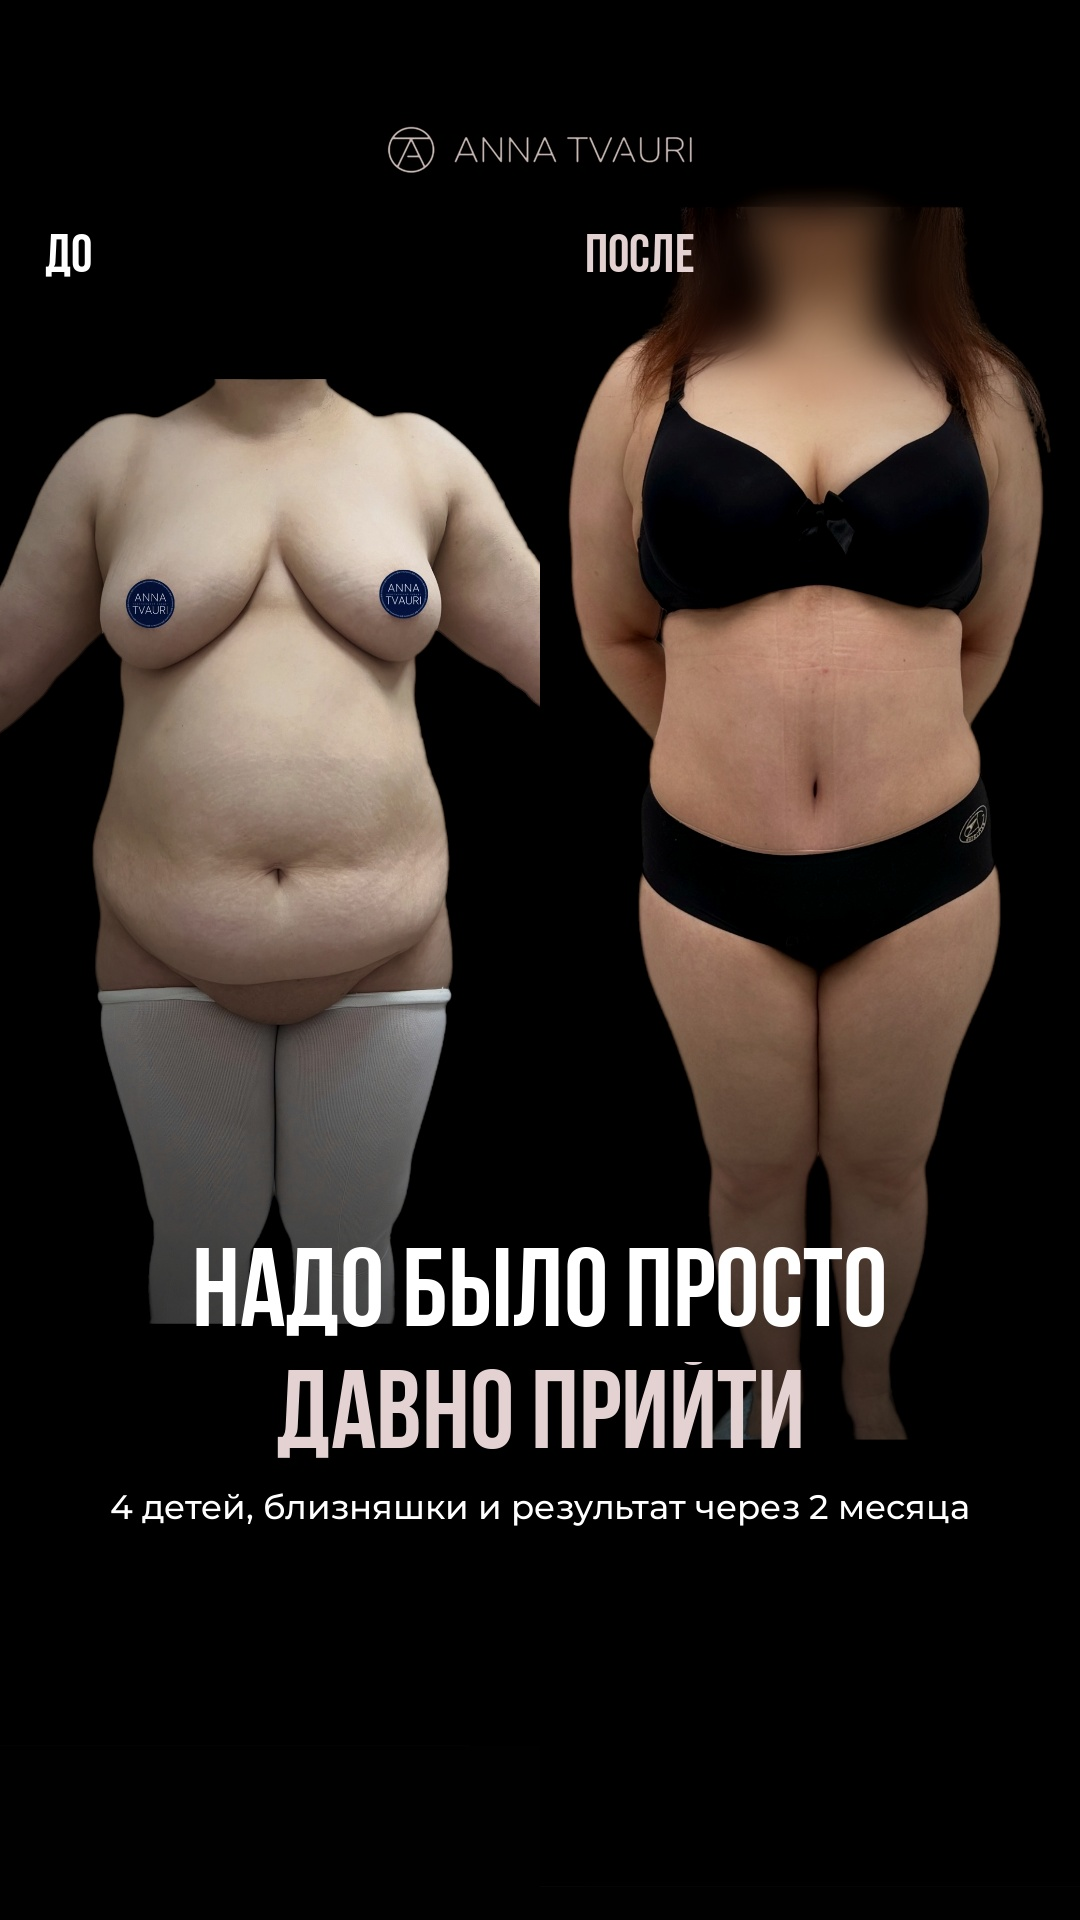
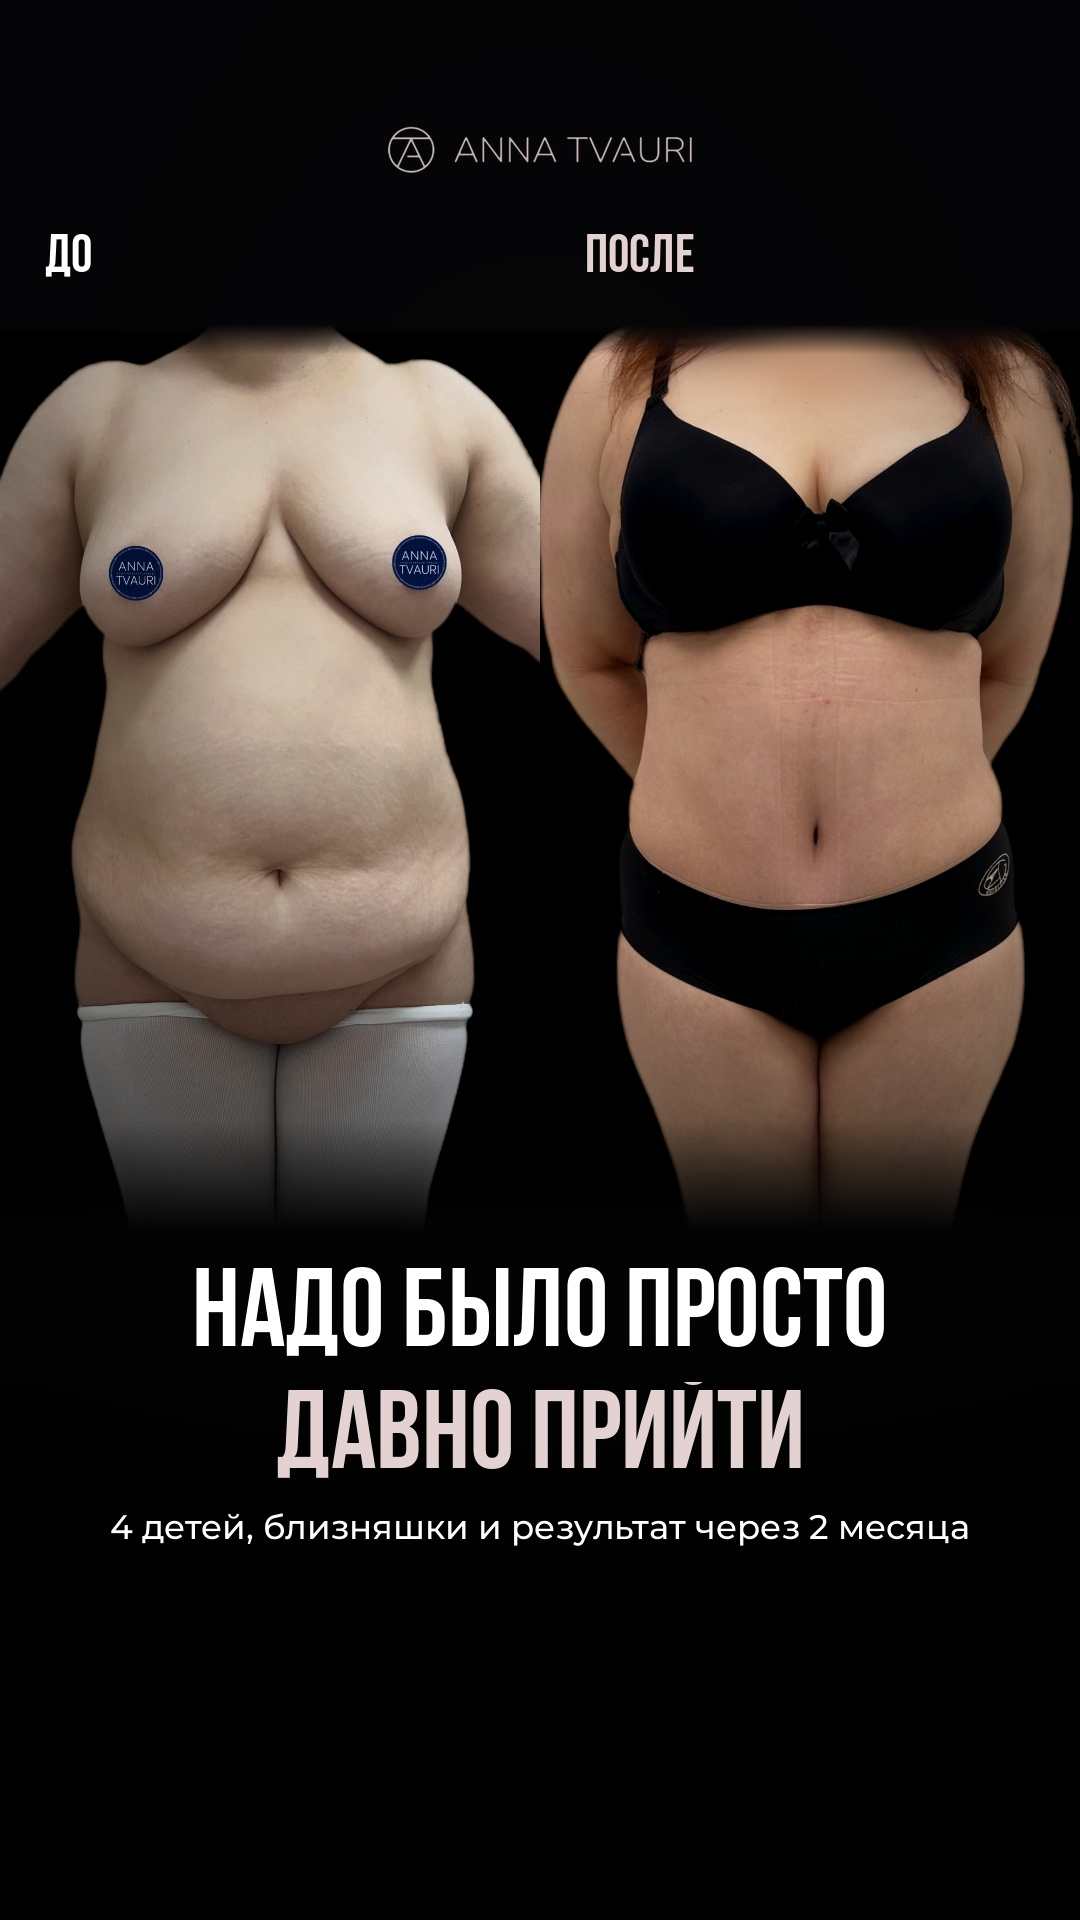
Abdominoplasty reel v2: ДО-only opening with callouts, no circle/CTA, varied text animations; neck-to-fingertips cover
Claude-Session: https://claude.ai/code/session_01WwhZiMgoJM3MQocuuEgczm

Changed region(s): [[0.0, 0.0938, 1.0, 0.8125]]

diff --git a/tools/reel_abdominoplasty.py b/tools/reel_abdominoplasty.py
@@ -1,5 +1,5 @@
 _b = open("base.py").read()
-for a, b in [("DUR = 41.0", "DUR = 50.6"), ("ease((t - t0) / 0.3))\ndef mblur", "ease((t - t0) / 0.6))\ndef mblur"),
+for a, b in [("DUR = 41.0", "DUR = 47.6"), ("ease((t - t0) / 0.3))\ndef mblur", "ease((t - t0) / 0.6))\ndef mblur"),
              ("if lt > 0.1: return fr", "if lt > 0.18: return fr"), ("(1 - lt / 0.1)", "(1 - lt / 0.18)"),
              ("ti = t0 + k * 0.16; p = ease((t - ti) / 0.45)", "ti = t0 + k * 0.24; p = ease((t - ti) / 0.65)"),
              ("out = 1 - ease((t - t1) / 0.3) if t > t1 else 1.0", "out = 1 - ease((t - t1) / 0.4) if t > t1 else 1.0"),
@@ -25,9 +25,9 @@ def src_of(t, name):
         best = (so, t0 + so - si)
     return None if best is None else best[0] + t - best[1]
 
-BL = [("open", 0, 3.2), ("iv1", 3.2, 8.0), ("do", 8.0, 12.6), ("morph", 12.6, 17.0), ("zones", 17.0, 20.2),
-      ("belly", 20.2, 23.0), ("waist", 23.0, 24.8), ("life", 24.8, 30.0), ("circ", 30.0, 35.1), ("here", 35.1, 40.0),
-      ("col1", 40.0, 41.8), ("col2", 41.8, 43.6), ("col3", 43.6, 45.4), ("col4", 45.4, 47.2), ("cta", 47.2, DUR)]
+BL = [("open", 0, 8.0), ("do", 8.0, 12.6), ("morph", 12.6, 17.0), ("zones", 17.0, 20.2),          # ДО only until the morph
+      ("belly", 20.2, 23.0), ("waist", 23.0, 24.8), ("life", 24.8, 30.0), ("secret", 30.0, 35.1), ("here", 35.1, 40.0),
+      ("col1", 40.0, 41.85), ("col2", 41.85, 43.7), ("col3", 43.7, 45.55), ("col4", 45.55, DUR)]
 XF = 0.35
 def block(t):
     for n, a, b in BL:
@@ -53,7 +53,7 @@ BF = {k: photo(n) for k, n in [("f", 7728), ("q", 7729), ("s", 7730), ("b", 7731
 AF = {k: photo(n) for k, n in [("f", 7732), ("q", 7733), ("s", 7734), ("b", 7735)]}
 AF["f"] = blur_ell(AF["f"], (1040, 900), (260, 210)); AF["q"] = blur_ell(AF["q"], (1090, 1000), (240, 270)); AF["s"] = blur_ell(AF["s"], (1180, 990), (200, 240))
 # body anchors: (shoulder y, crotch y, centre x) in source pixels
-ANC = {("B", "f"): (900, 2120, 1088), ("B", "q"): (960, 2230, 1050), ("B", "b"): (960, 2250, 1010),
+ANC = {("B", "f"): (900, 2120, 1088), ("B", "s"): (980, 2250, 1040), ("B", "q"): (960, 2230, 1050), ("B", "b"): (960, 2250, 1010),
        ("A", "f"): (1130, 2140, 1025), ("A", "q"): (1278, 2200, 1080)}
 def pv(img, key, z=1.0, Y0=430, Y1=1120):
     top, bot, cx = ANC[key]; s = (Y1 - Y0) / (bot - top) * z
@@ -61,14 +61,101 @@ def pv(img, key, z=1.0, Y0=430, Y1=1120):
 COL = [load(f"dl/IMG_{n}.PNG") for n in (7736, 7737, 7738, 7739)]
 
 # ---------------- text ----------------
+def timg(txt, kind, size):
+    f = osw(size) if kind in ("H", "P") else mont(500, 36); asc, desc = f.getmetrics(); tw = int(f.getlength(txt))
+    im = Image.new("RGBA", (tw + 8, asc + desc + 4), (0, 0, 0, 0)); ImageDraw.Draw(im).text((4, 2 + asc), txt, font=f, fill=(255, 255, 255, 255), anchor="ls")
+    return to_np(im)
+def cols(kind): return (PINK, ROSE) if kind == "P" else (WHITE, BLUE)
+class Pill:
+    """outlined rounded frame opens from the centre, then the text wipes in left -> right (reference opening)"""
+    def __init__(s, lines, size=84):
+        s.ims = [(timg(t, k, size), k) for t, k in lines]
+        s.w = max(i.shape[1] for i, _ in s.ims) + 90; s.h = sum(i.shape[0] for i, _ in s.ims) + 50
+        im = Image.new("RGBA", (s.w + 8, s.h + 8), (0, 0, 0, 0))
+        ImageDraw.Draw(im).rounded_rectangle((3, 3, s.w + 4, s.h + 4), radius=min(46, s.h // 2), outline=(255, 255, 255, 255), width=4)
+        s.box = to_np(im)
+    def draw(s, fr, yc, t, t0, t1):
+        if t < t0 or t > t1 + 0.5: return
+        pb = ease((t - t0) / 0.5); out = 1 - ease((t - t1) / 0.45) if t > t1 else 1.0
+        bw = max(2, int(s.box.shape[1] * pb)); x0 = 540 - s.box.shape[1] / 2; y0 = yc - s.box.shape[0] / 2
+        b = s.box.copy(); c = (s.box.shape[1] - bw) // 2; b[:, :c] = 0; b[:, c + bw:] = 0
+        ablend(fr, b, x0, y0, out * 0.95, WHITE, BLUE)
+        yy = y0 + 4 + 25
+        for k, (im, kind) in enumerate(s.ims):
+            pw = ease((t - t0 - 0.35 - 0.2 * k) / 0.55)
+            if t > t1: pw = min(pw, 1 - ease((t - t1 - 0.05 * k) / 0.35))
+            if pw > 0:
+                vis = im.copy(); vis[:, int(vis.shape[1] * pw):] = 0
+                ablend(fr, vis, 540 - im.shape[1] / 2, yy, 1.0, *cols(kind))
+            yy += im.shape[0]
+class SlideL:
+    """left-aligned lines slide out of their own mask, one by one"""
+    def __init__(s, lines, size=80, x=70): s.ims = [(timg(t, k, size), k) for t, k in lines]; s.x = x
+    def draw(s, fr, y, t, t0, t1):
+        if t < t0 or t > t1 + 0.5: return
+        out = 1 - ease((t - t1) / 0.4) if t > t1 else 1.0
+        for k, (im, kind) in enumerate(s.ims):
+            p = ease((t - t0 - 0.28 * k) / 0.6)
+            if p > 0:
+                w = int(im.shape[1] * p); vis = np.zeros_like(im); vis[:, :w] = im[:, im.shape[1] - w:]
+                ablend(fr, vis, s.x, y, out, *cols(kind))
+                if kind == "P" and p > 0.3:                                 # thin powder bar grows under the key line
+                    bar = np.zeros((6, int((im.shape[1] - 8) * ease((t - t0 - 0.28 * k - 0.25) / 0.6)) + 1, 4), np.float32); bar[..., 3] = 1
+                    ablend(fr, bar, s.x + 4, y + im.shape[0] + 2, out, PINK, ROSE)
+            y += im.shape[0] + 10
+class Pop:
+    """each line punches in from a bigger size"""
+    def __init__(s, lines, size=110): s.ims = [(timg(t, k, size), k) for t, k in lines]
+    def draw(s, fr, y, t, t0, t1):
+        if t < t0 or t > t1 + 0.5: return
+        out = 1 - ease((t - t1) / 0.4) if t > t1 else 1.0
+        for k, (im, kind) in enumerate(s.ims):
+            lt = t - t0 - 0.3 * k
+            if lt > 0:
+                sc = 1 + 0.45 * (1 - ease(lt / 0.45)); im2 = cv2.resize(im, (int(im.shape[1] * sc), int(im.shape[0] * sc)))
+                ablend(fr, im2, 540 - im2.shape[1] / 2, y + im.shape[0] / 2 - im2.shape[0] / 2, out * min(1, lt / 0.2), *cols(kind))
+            y += im.shape[0] + 4
+def brackets(fr, cx, cy, w, h, t, t0, t1):
+    """viewfinder corners that close in on the area (reference)"""
+    if t < t0 or t > t1 + 0.4: return
+    p = ease((t - t0) / 0.7); al = min(1, (t - t0) / 0.2) * (1 - ease((t - t1) / 0.4) if t > t1 else 1)
+    sc = 1.5 - 0.5 * p; hw, hh = w * sc / 2, h * sc / 2; L = 60
+    m = np.zeros((H, W), np.uint8)
+    for sx in (-1, 1):
+        for sy in (-1, 1):
+            x, y = int(cx + sx * hw), int(cy + sy * hh)
+            cv2.line(m, (x, y), (x - sx * L, y), 255, 5, cv2.LINE_AA); cv2.line(m, (x, y), (x, y - sy * L), 255, 5, cv2.LINE_AA)
+    a = m.astype(np.float32)[..., None] / 255 * al; fr *= 1 - a; fr += a
+CL = {}
+def callout(fr, txt, t, t0, pt, lx, ly, side, t1=1e9):
+    """diagnosis callout: pulsing dot -> thin line -> underlined small label (reference)"""
+    if t < t0 or t > t1 + 0.4: return
+    al = 1 - ease((t - t1) / 0.4) if t > t1 else 1.0
+    if txt not in CL:
+        f = mont(600, 42); asc, desc = f.getmetrics(); im = Image.new("RGBA", (int(f.getlength(txt)) + 8, asc + desc + 4), (0, 0, 0, 0))
+        ImageDraw.Draw(im).text((4, 2 + asc), txt, font=f, fill=(255, 255, 255, 255), anchor="ls"); CL[txt] = to_np(im)
+    im = CL[txt]; tw = im.shape[1]
+    ax = lx                                                                # line meets the label's outer end, underline runs inward
+    pl = ease((t - t0 - 0.2) / 0.5); pu = ease((t - t0 - 0.6) / 0.4)
+    m = np.zeros((H, W), np.uint8)
+    cv2.circle(m, (int(pt[0]), int(pt[1])), 8, 255, -1, cv2.LINE_AA)
+    pr = ((t - t0) * 0.9) % 1; ring_m = np.zeros((H, W), np.uint8); cv2.circle(ring_m, (int(pt[0]), int(pt[1])), int(14 + 26 * pr), 255, 3, cv2.LINE_AA)
+    ex, ey = pt[0] + (ax - pt[0]) * pl, pt[1] + (ly + 6 - pt[1]) * pl
+    cv2.line(m, (int(pt[0]), int(pt[1])), (int(ex), int(ey)), 255, 3, cv2.LINE_AA)
+    if pu > 0: cv2.line(m, (int(ax), int(ly + 6)), (int(ax - side * tw * pu), int(ly + 6)), 255, 3, cv2.LINE_AA)
+    a = (m.astype(np.float32) + ring_m.astype(np.float32) * (1 - pr) * 0.8)[..., None] / 255 * al * min(1, (t - t0) / 0.15)
+    fr *= 1 - np.clip(a, 0, 1); fr += np.clip(a, 0, 1)
+    if pu > 0:
+        x = lx if side < 0 else lx - tw; vis = im.copy(); vis[:, int(tw * pu):] = 0 if side < 0 else vis[:, int(tw * pu):]
+        if side > 0: vis[:, :int(tw * (1 - pu))] = 0
+        ablend(fr, vis, x, ly - im.shape[0] - 2, al, WHITE, BLUE)
 T0 = Title([("НАДО БЫЛО ПРОСТО", "H"), ("ДАВНО ПРИЙТИ", "P"), ("2 месяца после операции", "S")], 96)
-T1 = Title([("4 ДЕТЕЙ", "P"), ("ОДНИ РОДЫ С БЛИЗНЯШКАМИ", "H")], 92)
-T2 = Title([("АБДОМИНОПЛАСТИКА", "P"), ("+ ЛИПОСАКЦИЯ РУК", "H"), ("+ ЛИПОСАКЦИЯ СПИНЫ", "H")], 84)
-T3 = Title([("УШИЛИ ДИАСТАЗ", "P"), ("рубцу сейчас только 2 месяца", "S")], 104)
-T4 = Title([("НАЧАЛАСЬ", "H"), ("НОВАЯ ЖИЗНЬ", "P")], 104)
-T5 = Title([("«ОКАЗЫВАЕТСЯ, ВЕСЬ СЕКРЕТ —", "H"), ("ПРОСТО ПРИЙТИ»", "P")], 80)
-T6 = Title([("НАДО ЖИТЬ", "H"), ("ЗДЕСЬ И СЕЙЧАС", "P")], 110)
-TC = Title([("ЗАПИСЬ НА КОНСУЛЬТАЦИЮ", "H"), ("ПИШИТЕ «КОНСУЛЬТАЦИЯ»", "P"), ("в Direct", "S")], 92)
+T1 = Pill([("4 ДЕТЕЙ", "P"), ("ОДНИ РОДЫ С БЛИЗНЯШКАМИ", "H")], 80)                       # framed, bottom
+T2 = SlideL([("АБДОМИНОПЛАСТИКА", "P"), ("+ ЛИПОСАКЦИЯ РУК", "H"), ("+ ЛИПОСАКЦИЯ СПИНЫ", "H")], 76)   # left column
+T3 = Pop([("УШИЛИ ДИАСТАЗ", "P")], 118); T3s = timg("рубцу сейчас только 2 месяца", "S", 0)       # big punch, centre
+T4 = Title([("НАЧАЛАСЬ", "H"), ("НОВАЯ ЖИЗНЬ", "P")], 112)                                     # top of the frame
+T5 = Pill([("ВЕСЬ СЕКРЕТ —", "H"), ("ПРОСТО ПРИЙТИ", "P")], 92)
+T6 = Pop([("НАДО ЖИТЬ", "H"), ("ЗДЕСЬ И СЕЙЧАС", "P")], 116)
 CH_DO, CH_PO = label("ДО", WHITE), label("ПОСЛЕ", PINK)
 
 ZL = {}
@@ -108,7 +195,7 @@ for i in range(len(SUB)):
     nxt = SUB[i + 1][0] if i + 1 < len(SUB) else DUR
     SUB[i][1] = min(nxt, max(SUB[i][1], SUB[i][0] + 0.3) + 0.25)
 
-def face_disc_iv(t, r):
+def _unused_face_disc_iv(t, r):
     f = V["iv"].get(int(round(src_of(t, "iv") * 30))); half = 430
     crop = f[int(560 - half):int(560 + half), int(540 - half):int(540 + half)]
     return cv2.resize(crop, (2 * int(r), 2 * int(r)), interpolation=cv2.INTER_AREA).astype(np.float32) / 255
@@ -124,25 +211,34 @@ def morph(a_, b_, p, f=0.35):
     edge = (xx_ / W * 0.6 + yy_ / H * 0.4)[..., None]
     m = np.clip((p * (1 + f) - edge) / f, 0, 1); return a_ * (1 - m) + b_ * m
 
-LIGHT_BLOCKS = ("circ", "cta")
+LIGHT_BLOCKS = ()
+def focus(fr, lt, dur=0.9):                                             # reference: start out of focus, pull in
+    sg = 14 * (1 - ease(lt / dur)) ** 1.5
+    return cv2.GaussianBlur(fr, (0, 0), sg) if sg > 0.5 else fr
+OPEN_Z = lambda t: 1.0 + 0.06 * t / 8.0
+def P_open(x, y, t):                                                    # source px of the ДО front -> screen, opening framing
+    top, bot, cx = ANC[("B", "f")]; s = (1240 - 380) / (bot - top) * OPEN_Z(t); return (540 + (x - cx) * s, 810 + (y - (top + bot) / 2) * s)
 def render_block(t, b=None):
     n, t0, t1 = b or block(t); lt = t - t0; flash = 0; DEFER[0] = True; PENDING.clear(); LIGHT[0] = n in LIGHT_BLOCKS
-    if n == "open":                                                     # ДО, slow push
-        fr = pv(BF["f"], ("B", "f"), 1.0 + 0.05 * lt / 3.2); chip(fr, CH_DO, 60, 228, t, 0.2)
-    elif n == "iv1":
-        fr = mblur(vsync("iv", t, 1.12 * (1 + 0.03 * lt / 4.8) * trans(t, t0), 540, 900, 900), lt)
+    if n == "open":                                                     # ДО, closer, focus pull + viewfinder, then diagnosis callouts
+        fr = focus(pv(BF["f"], ("B", "f"), OPEN_Z(t), 380, 1240), t); chip(fr, CH_DO, 60, 228, t, 0.5)
+        bx, by = P_open(1110, 1900, t); brackets(fr, bx, by, 330, 300, t, 0.25, 2.6)
+        callout(fr, "избыток на руках", t, 3.9, P_open(430, 1440, t), 40, 1330, -1)
+        callout(fr, "растянутый живот", t, 4.6, P_open(1260, 1840, t), 1040, 1240, 1)
+        callout(fr, "потеря талии", t, 5.3, P_open(780, 1720, t), 40, 1440, -1)
+        callout(fr, "кожный фартук", t, 6.0, P_open(1180, 2080, t), 1040, 1350, 1)
     elif n == "do":                                                     # ДО: front -> 3/4 -> back, soft dissolves
-        seq = [("f", 8.0), ("q", 9.5), ("b", 11.0)]; fr = None
+        seq = [("q", 8.0), ("s", 9.5), ("b", 11.0)]; fr = None
         for k, (key, s0) in enumerate(seq):
             if t < s0: break
             img = pv(BF[key], ("B", key), 1.0 + 0.04 * (t - s0))
             a = ease((t - s0) / 0.45) if k else 1.0; fr = img if fr is None else fr * (1 - a) + img * a
-        chip(fr, CH_DO, 60, 228, t, t0 + 0.1); T1.draw(fr, 1210, t, t0 + 0.3, t1 - 0.05)
+        chip(fr, CH_DO, 60, 228, t, t0 + 0.1); T1.draw(fr, 1290, t, t0 + 0.3, t1 - 0.35)
     elif n == "morph":                                                  # smooth ДО -> ПОСЛЕ (shoulders + crotch aligned)
         z = 1.0 + 0.04 * lt / 4.4
         fr = morph(pv(BF["f"], ("B", "f"), z), pv(AF["f"], ("A", "f"), z), ease((t - 13.1) / 1.6))
         chip(fr, CH_DO, 60, 228, t, t0, 13.1); chip(fr, CH_PO, 60, 228, t, 14.0)
-        T2.draw(fr, 1190, t, 14.2, t1 - 0.05)
+        T2.draw(fr, 1170, t, 14.2, t1 - 0.3); flash = 0.22 * max(0, 1 - abs(t - 13.15) / 0.2)
     elif n == "zones":                                                  # where the figure changed
         fr = pv(AF["q"], ("A", "q"), 1.0 + 0.03 * lt / 3.2); chip(fr, CH_PO, 60, 228, t, t0 + 0.1)
         z = 1.0 + 0.03 * lt / 3.2; P = lambda x, y: (540 + (x - 1080) * 690 / 922 * z, 775 + (y - 1739) * 690 / 922 * z)
@@ -152,29 +248,29 @@ def render_block(t, b=None):
         zone(fr, "СПИНА", t, t0 + 1.65, P(740, 1800), 200, 940, -1)
     elif n == "belly":                                                  # close-up: belly, scar
         fr = mblur(vframe("surg", 35.9 + lt * 0.85, 1.05 * (1 + 0.03 * lt / 2.8) * trans(t, t0), 540, 820, 540, 800), lt)
-        chip(fr, CH_PO, 60, 228, t, t0 + 0.1); T3.draw(fr, 1210, t, t0 + 0.35, t1 - 0.05)
+        chip(fr, CH_PO, 60, 228, t, t0 + 0.1); T3.draw(fr, 1180, t, t0 + 0.35, t1 - 0.3)
+        if t > t0 + 0.9: ablend(fr, T3s, 540 - T3s.shape[1] / 2, 1330, min(1, (t - t0 - 0.9) / 0.4) * (1 - ease((t - t1 + 0.3) / 0.4)), WHITE, BLUE)
     elif n == "waist":
         fr = mblur(vsync("surg", t, 1.1 * trans(t, t0), 540, 980, 900), lt); chip(fr, CH_PO, 60, 228, t, t0 + 0.1)
     elif n == "life":                                                   # the figure now: she turns
         fr = mblur(vframe("walk", 0.2 + lt, 1.0 * trans(t, t0), 540, 900, 540, 900), lt); chip(fr, CH_PO, 60, 228, t, t0 + 0.1)
-        T4.draw(fr, 1230, t, 26.7, t1 - 0.05)
-    elif n == "circ":
-        fr = white_bg(t); circle_iv(fr, t, t0, 540, 720, 300)
-        T5.draw(fr, 1150, t, t0 + 0.5, t1 - 0.05)
+        T4.draw(fr, 300, t, 26.7, t1 - 0.3)
+    elif n == "secret":                                                 # interview: B&W flash in, focus pull, framed text
+        fr = focus(mblur(vsync("iv", t, 1.15 * (1 + 0.04 * lt / 5) * trans(t, t0), 540, 880, 880), lt), lt, 0.7)
+        if lt < 0.5: g = fr @ np.float32([0.299, 0.587, 0.114]); k = 1 - ease(lt / 0.5); fr = fr * (1 - k) + g[..., None] * k
+        T5.draw(fr, 1240, t, t0 + 0.6, t1 - 0.35)
     elif n == "here":
         fr = mblur(vframe("walk", 5.0 + lt * 0.9, 1.0 * trans(t, t0), 540, 900, 540, 900), lt); chip(fr, CH_PO, 60, 228, t, t0 + 0.1)
-        T6.draw(fr, 1230, t, 37.5, t1 - 0.05)
+        T6.draw(fr, 1180, t, 37.5, t1 - 0.3)
     elif n.startswith("col"):                                           # ready ДО/ПОСЛЕ collages: ПОСЛЕ top, ДО bottom
         img = COL[int(n[3]) - 1]; z = (1 + 0.02 * lt) * trans(t, t0, 0.04)
         fr = mblur(warp(img, W / img.shape[1] * z, img.shape[1] / 2, img.shape[0] / 2), lt)
         chip(fr, CH_PO, 40, 228, t, t0 + 0.3); chip(fr, CH_DO, 40, 990, t, t0 + 0.5)
-    else:                                                               # CTA on white
-        fr = white_bg(t); TC.draw(fr, 760, t, t0 + 0.15, 1e9)
-    if n in ("open", "iv1"): T0.draw(fr, 1180, t, 0.3, 7.7)
+    if n == "open": T0.draw(fr, 1170, t, 0.9, 3.5)
     dark = not LIGHT[0] and not n.startswith("col")
     if not LIGHT[0]: fr = look(fr, t)
     if dark: fr = fr * (1 - HAZE)
-    if not n.startswith("col") and n != "cta": subs(fr, t)
+    if not n.startswith("col"): subs(fr, t)
     DEFER[0] = False
     for args in PENDING: ablend(fr, *args)
     blend(fr, LOGO_D if LIGHT[0] else LOGO, 540 - LOGO.shape[1] / 2, 120, 0.9)

diff --git a/tools/reel_abdominoplasty_audio.py b/tools/reel_abdominoplasty_audio.py
@@ -1,5 +1,5 @@
 import numpy as np, wave, librosa, cv2
-SR=48000; DUR=50.6; M0=17.44
+SR=48000; DUR=47.6; M0=17.44
 src=open("../v14/audio.py").read(); exec(src[src.index("rng=np.random"):src.index("n=int(DUR*SR)")])
 s2=open("../v15/audio.py").read()
 exec(s2[s2.index("def impact"):s2.index("n=int(DUR*SR)", s2.index("def impact"))])
@@ -25,11 +25,12 @@ mus*=((0.34-0.30*np.clip(d,0,1))*np.minimum(1,tt/0.3)*fade)[:,None]
 sfx=np.zeros(n+SR)
 def put(s,t,g): i=int(max(0,t)*SR); seg=sfx[i:i+len(s)]; seg+=s[:len(seg)]*g
 WB,PP,IM,RS=whoosh(),pop(),impact(),riser(); SH,BM,SM,DG=shutter(),boom(),shimmer(),ding(); SW=whoosh(0.28,800,9000,0.5)
-for c in [3.2,8.0,12.6,17.0,20.2,23.0,24.8,30.0,35.1,40.0,41.8,43.6,45.4,47.2]: put(WB,c-0.3,0.2); put(BM,c,0.18)
-for t in [0.0,9.5,11.0,40.0,41.8,43.6,45.4]: put(SH,t+0.02,0.2)
-for t in [17.3,17.75,18.2,18.65,30.0]: put(PP,t,0.22)
+for c in [8.0,12.6,17.0,20.2,23.0,24.8,30.0,35.1,40.0,41.85,43.7,45.55]: put(WB,c-0.3,0.2); put(BM,c,0.18)
+for t in [9.5,11.0,40.0,41.85,43.7,45.55]: put(SH,t+0.02,0.2)
+put(SH,0.35,0.18); put(SM,0.1,0.16)
+for t in [3.9,4.6,5.3,6.0,17.3,17.75,18.2,18.65]: put(PP,t,0.2)
 put(RS,13.1-1.0,0.16); put(SM,13.2,0.18); put(IM,14.2,0.22); put(IM,20.55,0.25); put(SM,26.7,0.14); put(IM,37.5,0.22)
-for t0,nl in [(0.3,3),(8.3,2),(14.2,3),(20.55,2),(26.7,2),(30.5,2),(37.5,2),(47.35,3)]:
+for t0,nl in [(0.9,3),(8.3,2),(14.2,3),(20.55,1),(26.7,2),(30.6,2),(37.5,2)]:
     for k in range(nl): put(SW,t0+k*0.24-0.05,0.13)
 put(DG,40.1,0.1)
 mix=mus+vo[:,None]+sfx[:n,None]*0.5

diff --git a/tools/reel_abdominoplasty_cover.py b/tools/reel_abdominoplasty_cover.py
@@ -1,13 +1,19 @@
 exec(open("reel.py").read().split('if __name__ == "__main__":')[0])
 TCV = Title([("НАДО БЫЛО ПРОСТО", "H"), ("ДАВНО ПРИЙТИ", "P"), ("4 детей, близняшки и результат через 2 месяца", "S")], 112)
 DEFER[0] = True; PENDING.clear(); LIGHT[0] = False
-def half(img, key, Y0=420, Y1=1010):
-    top, bot, cx = ANC[key]; s = (Y1 - Y0) / (bot - top)
-    return warp(img, s, cx, (top + bot) / 2, 270, (Y0 + Y1) / 2, (540, H))
-fr = np.concatenate([half(BF["f"], ("B", "f")), half(AF["f"], ("A", "f"))], 1)
+# same anatomical span on both sides: from the neck down to the fingertips (mid-thigh)
+SPAN = {"B": (830, 2420, 1088), "A": (995, 2300, 1025)}
+Y0, Y1 = 330, 1190
+def half(img, key):
+    top, bot, cx = SPAN[key]; s = (Y1 - Y0) / (bot - top)
+    im = warp(img, s, cx, (top + bot) / 2, 270, (Y0 + Y1) / 2, (540, H))
+    y = np.arange(H, dtype=np.float32)[:, None, None]
+    m = np.clip((y - Y0 + 6) / 30, 0, 1) * np.clip((Y1 + 40 - y) / 110, 0, 1)     # soft cut at the neck and below the fingertips
+    return im * m + np.float32([16, 16, 18]) / 255 * (1 - m)
+fr = np.concatenate([half(BF["f"], "B"), half(AF["f"], "A")], 1)
 fr = look(fr, 99); fr = fr * (1 - HAZE)
 chip(fr, CH_DO, 40, 228, 9, 0); chip(fr, CH_PO, 580, 228, 9, 0)
-TCV.draw(fr, 1240, 9, 0)
+TCV.draw(fr, 1260, 9, 0)
 DEFER[0] = False
 for args in PENDING: ablend(fr, *args)
 blend(fr, LOGO, 540 - LOGO.shape[1] / 2, 120, 0.9)
